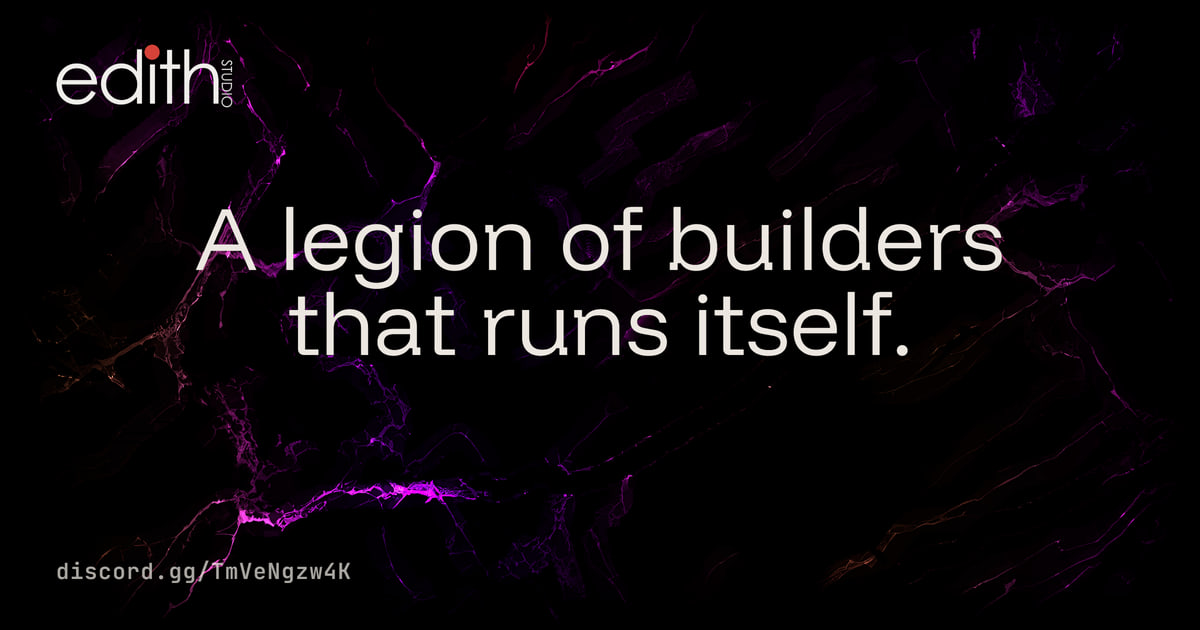
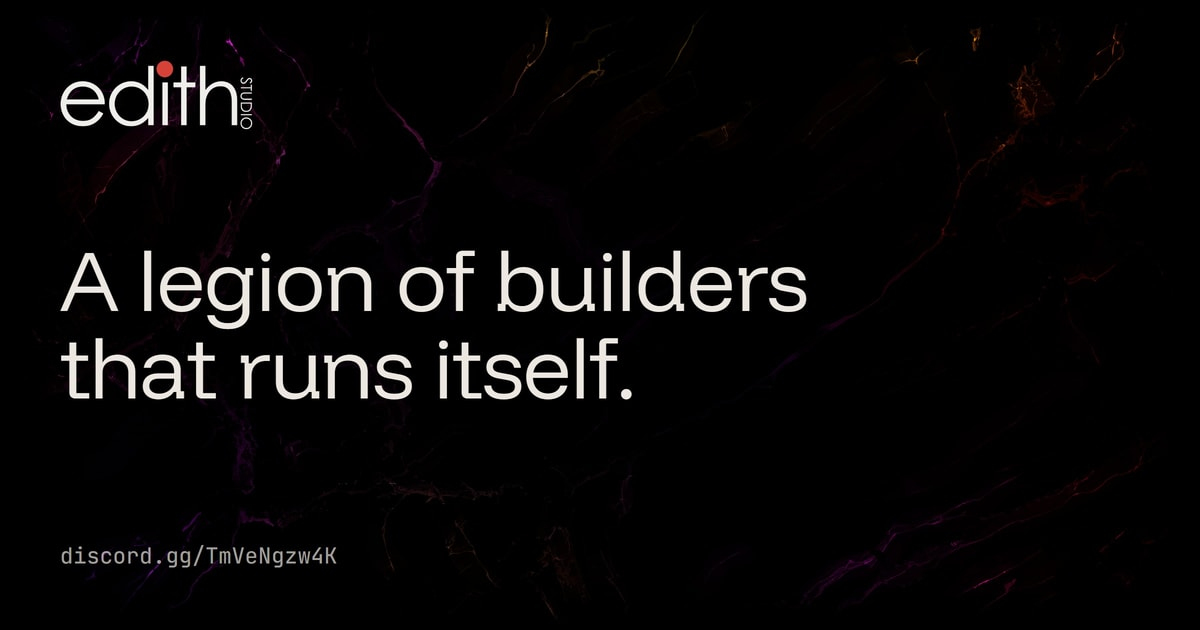
Share image (C1) wired in everywhere; checklist: A2b exempt-role check flagged, A0 token rotation options

diff --git a/web/docs/kevin-todo.md b/web/docs/kevin-todo.md
@@ -14,10 +14,10 @@ Legend: `[ ]` to do, `[~]` started, `[x]` done. Time is a rough guess for you, n
 
 ## Start here (the three that unlock the most)
 
-0. **Rotate the Discord bot token (5 min, urgent).** The terminal session that ran Prompt 2 exposed `DISCORD_BOT_TOKEN` in its own transcript during a bulk paste. It tried to rotate it and could not finish because Discord asked for your MFA, so the current token is still the old, exposed one. Discord Developer Portal, your application, Bot, Reset Token; paste the new value into `DISCORD_BOT_TOKEN` on Vercel yourself (do not paste it to me or into any chat), then redeploy and tell me it is done so I can tick this off.
-1. ~~Decide B1 and B2~~ **Done (21 Sep):** GitHub required, and minimum account ages on (Discord 7 days, GitHub 30 days).
-2. **A7: test the join flow** (about 20 minutes). A1 to A6 are done (see below); this is what is left before going live. Two spare Discord accounts and two spare GitHub accounts, steps in `docs/onboarding-setup.md` step 8.
-3. **Build the share image (C1)** (about 40 minutes in Affinity, or a few minutes if you hand it to a Claude Code terminal with Prompt 3 in `docs/claude-code-setup-prompts.md`). It is what every pasted link shows.
+0. **Rotate the Discord bot token (5 min, urgent).** Exposed in a terminal transcript during setup. Discord Developer Portal, your application, Bot, Reset Token (needs your MFA). Either paste the new value into `DISCORD_BOT_TOKEN` on Vercel yourself, or give it to the same terminal session and let it do that step, since it already offered. Tell me either way is done.
+1. **Confirm `DISCORD_ROLES_EXEMPT` covers all four staff roles (2 min), see A2b below.** You told the setup session to keep the bot (Friday) as Administrator, above staff in the role order. That is your call, but it means the exempt list is now the *only* thing stopping the sweep from ever kicking staff.
+2. ~~Decide B1 and B2~~ **Done (21 Sep):** GitHub required, and minimum account ages on (Discord 7 days, GitHub 30 days).
+3. **A7: test the join flow** (about 20 minutes). A1 to A6 are done (see below); this is what is left before going live. Two spare Discord accounts and two spare GitHub accounts, steps in `docs/onboarding-setup.md` step 8.
 
 ---
 
@@ -31,7 +31,8 @@ in `missed`), `/join` loads and shows the form. Everything stays switched off (`
 `ONBOARDING_START` unset). One thing came out of that run that needs you first: **A0 above, rotate the Discord bot token.**
 
 - [x] **A1. Discord server.** Roles, private forms channel, ids copied.
-- [x] **A2. Discord application and bot.** Redirect set, Server Members Intent on, bot invited and ranked above Catalyst and Pending. **Token needs rotating, see A0.**
+- [x] **A2. Discord application and bot.** Renamed to Friday, reused an old unused application (confirmed with you: nothing else depended on it), redirect set, only Server Members Intent on, Public Bot off. **Token needs rotating, see A0.**
+- [ ] **A2b. Confirm the exempt role list (2 min).** You kept Friday as Administrator and above Founder, Core Team, Mods and Maintainer in the role order, so Discord's own hierarchy will not stop the bot kicking staff. `DISCORD_ROLES_EXEMPT` on Vercel is the only thing that does. Check it lists all four of those role ids and tell me if any are missing.
 - [x] **A3. GitHub OAuth app.** Created under your own account (confirmed with the terminal session), callback set.
 - [x] **A4. Database.** Upstash for Redis connected; it landed on the `KV_REST_API_URL` / `KV_REST_API_TOKEN` pair, which the site accepts (either name works, see `lib/join/config.ts`).
 - [x] **A5. Vercel settings.** All 21 variables set on Production, secrets marked non-retrievable, the four `NEXT_PUBLIC_*` ones left readable on purpose (they ship to the browser). Redeployed and Ready.
@@ -57,7 +58,7 @@ Tell me your choice in one line each. My recommendation is first.
 
 Specs, sizes and colours are in `docs/affinity-brief.md`; the starting files are in `web/assets-in/reference/`. Drop finished files in `web/assets-in/` and tell me; I wire each in. Nothing is blocked while you work: the site already has stand-ins.
 
-- [ ] **C1. Share image** (about 40 minutes): `opengraph-image.jpg`, 2400 by 1260. **Shortcut:** Prompt 3 in `docs/claude-code-setup-prompts.md` builds it in code from the exact brief, no Affinity needed; drop it into `web/assets-in/` for me to wire in either way.
+- [x] **C1. Share image.** **Done 22 Sep**, built by a Claude Code terminal from the brief (Prompt 3), no Affinity needed. Wired into all four spots (`app/`, `app/docs/`, `app/legion/`, plus `twitter-image.jpg`), rebuilt, and checked live: each route returns 200, `image/jpeg`, exactly 1200x630.
 - [ ] **C2. Logo pack** (about 20 minutes, only if the final logo is ready): wordmark SVG and PNG, square mark.
 - [ ] **C3. Six hub glyphs** (about 30 minutes): ideas, build, team-up, help, feedback, show-off, as SVG. I then re-render the layer stack and the Beliefs sequence.
 - [ ] **C4. Optional: Discord server icon and banner** in the same style, so the community looks like the site.
@@ -99,21 +100,23 @@ Specs, sizes and colours are in `docs/affinity-brief.md`; the starting files are
 
 | Waiting on you | I will do as soon as you finish it |
 | --- | --- |
-| A0 bot token rotation | Tick A2's note off, and re-check nothing else needs the new token |
+| A0 bot token rotation | Tick A2's note off |
+| A2b exempt role check | Note it and move on, or fix `DISCORD_ROLES_EXEMPT` with you if a role is missing |
 | A7 testing | Fix anything that breaks against the real Discord, GitHub and database; then help you go live (A8) |
 | B3 colour | Re-render the Membership and Decisions objects, restyle the Safety seal and the side rail |
 | B4 section plan | Build the section before the footer |
 | B5 | Add the Cmd+K palette |
-| C1 to C3 | Wire each file in and re-render where needed |
+| C2, C3 | Wire each file in and re-render where needed |
 | D1 (X page, coming soon) | Add the X icon |
 | E2 | Replace the placeholder in the legal text |
 
-Done since the last update: B6, B8 decided and applied; D2, D3, D4, D6 confirmed by you.
+Done since the last update: B6, B8 decided and applied; D2, D3, D4, D6 confirmed by you; C1 built and wired in.
 
 Nothing else is queued on my side.
 
 ## Log of what is done (newest first)
 
+- 22 Sep 2026: C1 (share image) built by a Claude Code terminal (Prompt 3), resized and wired into `app/`, `app/docs/`, `app/legion/` and `twitter-image.jpg`; build, lint and a live check of all four routes (200, `image/jpeg`, 1200x630) pass. Confirmed with you that the reused Discord application ("E.D.I.T.H.", renamed to Friday) was an unused leftover, nothing else broke. Flagged A2b: you kept Friday as Administrator above staff in the role order, so `DISCORD_ROLES_EXEMPT` is now the only thing protecting Founder, Core Team, Mods and Maintainer from the sweep; asked you to confirm it lists all four.
 - 22 Sep 2026: A1 to A6 done, run through the two Claude Code terminal prompts (GitHub OAuth app, Upstash database, Vercel env vars, GitHub repo secrets). Dry run against the real services came back clean, `/join` loads. Two follow ups: rotate `DISCORD_BOT_TOKEN` (it was exposed in that terminal session's own transcript, added as A0), and fixed the `Get-Random -Count 48` line in `docs/onboarding-setup.md` and `docs/claude-code-setup-prompts.md`, which had been silently generating 36 character secrets instead of 48 (still a huge keyspace, not a security problem, just not what it said).
 - 22 Sep 2026: Decided B6 (footer wording changed to "a community that runs itself") and B8 (retention text kept as written); implemented B6 in `lib/content.ts`. Confirmed by you: D2 (Instagram and LinkedIn links), D3 (Calendly), D4 (inbox monitored), D6 (git remote connected, Sync and Push work). Added a code-built option for C1 (Prompt 3 in `docs/claude-code-setup-prompts.md`). D1 (X) still open: no page yet, you will make one and say when.
 - 21 Sep 2026: Wrote two ready-to-paste Claude Code prompts for the Discord side (A1, A2) and the GitHub, database, Vercel and scheduler side (A3 to A6), in `docs/claude-code-setup-prompts.md`. Both keep everything switched off, keep secrets outside the repository, and end with a report.
